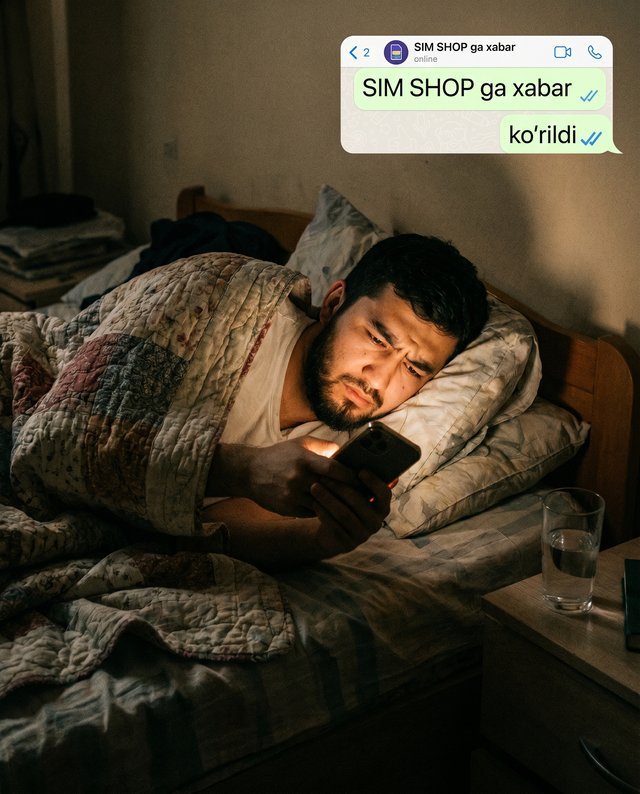
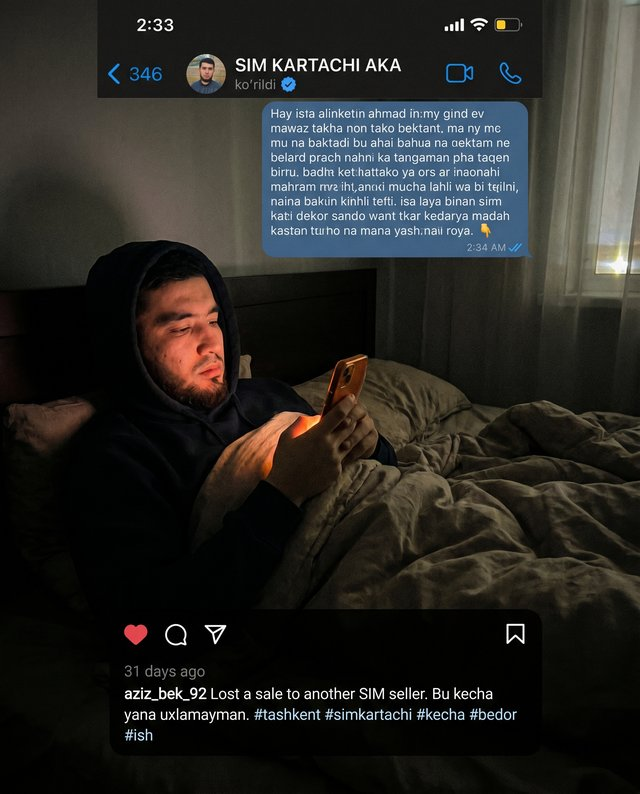
Muammo -> Yechim bo'limi: qizil ✕ muammo / yashil ✓ yechim, rasmlar bilan
- 4 ta yechim rasmi (Nano Banana Pro): tunda bot darrov sotadi, AI savollarga
  o'zi javob beradi, maossiz 24/7, bir vaqtda cheksiz mijoz
- pain-1 qayta yaratildi ('SIM KARTACHI AKA' matni bilan)
- Og'riq bo'limi muammo<->yechim taqqoslashga aylandi (yonma-yon, IG-snimki)

diff --git a/landing/index.html b/landing/index.html
@@ -152,27 +152,31 @@
 <section class="sec" id="muammo">
   <div class="wrap">
     <div class="sec-head reveal">
-      <span class="eyebrow">Tanish-mi?</span>
-      <h2>Har bir yo'qolgan mijoz — yo'qolgan pul.</h2>
-      <p class="sub">Qo'lda sotish biznesingizni ushlab turibdi — lekin sizni ham charchatyapti.</p>
+      <span class="eyebrow">Muammo → Yechim</span>
+      <h2>Har bir muammoning — tayyor yechimi.</h2>
+      <p class="sub">Chapda — bugungi og'rig'ingiz. O'ngda — AI agent yechimi.</p>
     </div>
-    <div class="pain-grid">
-      <figure class="pain reveal">
-        <div class="pain-img"><img src="assets/pain-1.jpg?v=1" alt="Tunda kelgan, javobsiz qolgan mijoz" loading="lazy"></div>
-        <figcaption><h3>Tunda kelgan mijoz</h3><p>Ertalab javob berguningizcha, u allaqachon boshqa do'kondan olib bo'ladi.</p></figcaption>
-      </figure>
-      <figure class="pain reveal">
-        <div class="pain-img"><img src="assets/pain-2.jpg?v=1" alt="Bir xil savollardan charchagan sotuvchi" loading="lazy"></div>
-        <figcaption><h3>Bir xil savollar</h3><p>"Qaysi tarif arzon?", "Qancha GB?" — kuniga yuz marta, o'zingiz.</p></figcaption>
-      </figure>
-      <figure class="pain reveal">
-        <div class="pain-img"><img src="assets/pain-3.jpg?v=1" alt="Operator xarajati va maosh tashvishi" loading="lazy"></div>
-        <figcaption><h3>Operator xarajati</h3><p>Maosh, dam olish, kasallik, xato — hammasi sizning bo'yningizda.</p></figcaption>
-      </figure>
-      <figure class="pain reveal">
-        <div class="pain-img"><img src="assets/pain-4.jpg?v=1" alt="Uzun navbat — ketgan savdo" loading="lazy"></div>
-        <figcaption><h3>Cheklangan vaqt</h3><p>Bir vaqtda faqat bitta mijoz. Navbat — ketgan savdo.</p></figcaption>
-      </figure>
+    <div class="ps-grid">
+      <div class="ps-row reveal">
+        <figure class="ps-card bad"><div class="ps-tag bad">✕ Muammo</div><div class="ps-img"><img src="assets/pain-1.jpg?v=2" alt="Tunda javobsiz qolgan mijoz" loading="lazy"></div><figcaption>Tunda kelgan mijoz — ertalabgacha boshqa do'kondan oladi.</figcaption></figure>
+        <div class="ps-arrow" aria-hidden="true">→</div>
+        <figure class="ps-card good"><div class="ps-tag good">✓ Yechim</div><div class="ps-img"><img src="assets/sol-1.jpg?v=1" alt="AI bot tunda darrov javob beradi" loading="lazy"></div><figcaption>AI bot tunda ham 1 soniyada javob berib, buyurtmani oladi.</figcaption></figure>
+      </div>
+      <div class="ps-row reveal">
+        <figure class="ps-card bad"><div class="ps-tag bad">✕ Muammo</div><div class="ps-img"><img src="assets/pain-2.jpg?v=2" alt="Bir xil savollardan charchagan sotuvchi" loading="lazy"></div><figcaption>Bir xil savollar — kuniga yuz marta, o'zingiz javob berasiz.</figcaption></figure>
+        <div class="ps-arrow" aria-hidden="true">→</div>
+        <figure class="ps-card good"><div class="ps-tag good">✓ Yechim</div><div class="ps-img"><img src="assets/sol-2.jpg?v=1" alt="AI barcha savollarga o'zi javob beradi" loading="lazy"></div><figcaption>AI barcha savollarga o'zi, charchamasdan javob beradi.</figcaption></figure>
+      </div>
+      <div class="ps-row reveal">
+        <figure class="ps-card bad"><div class="ps-tag bad">✕ Muammo</div><div class="ps-img"><img src="assets/pain-3.jpg?v=2" alt="Operator xarajati" loading="lazy"></div><figcaption>Operator xarajati — maosh, dam olish, kasallik, xato.</figcaption></figure>
+        <div class="ps-arrow" aria-hidden="true">→</div>
+        <figure class="ps-card good"><div class="ps-tag good">✓ Yechim</div><div class="ps-img"><img src="assets/sol-3.jpg?v=1" alt="AI maossiz 24/7 ishlaydi" loading="lazy"></div><figcaption>AI maossiz, 24/7 ishlaydi — qo'shimcha xarajat yo'q.</figcaption></figure>
+      </div>
+      <div class="ps-row reveal">
+        <figure class="ps-card bad"><div class="ps-tag bad">✕ Muammo</div><div class="ps-img"><img src="assets/pain-4.jpg?v=2" alt="Uzun navbat" loading="lazy"></div><figcaption>Cheklangan vaqt — bir vaqtda bitta mijoz, navbat ketgan savdo.</figcaption></figure>
+        <div class="ps-arrow" aria-hidden="true">→</div>
+        <figure class="ps-card good"><div class="ps-tag good">✓ Yechim</div><div class="ps-img"><img src="assets/sol-4.jpg?v=1" alt="AI bir vaqtda cheksiz mijozga xizmat qiladi" loading="lazy"></div><figcaption>AI bir vaqtda cheksiz mijozga xizmat qiladi — navbat yo'q.</figcaption></figure>
+      </div>
     </div>
   </div>
 </section>

diff --git a/landing/css/styles.css b/landing/css/styles.css
@@ -17,13 +17,23 @@
 
 /* --- Og'riq nuqtalari --- */
 .pain-grid{display:grid;grid-template-columns:repeat(4,1fr);gap:18px}
-/* Og'riq kartalari — Instagram-snimki (to'liq rasm + izoh) */
-.pain{background:#fff;border:1px solid var(--line);border-radius:16px;overflow:hidden;box-shadow:var(--sh);display:flex;flex-direction:column}
-.pain-img{display:block;background:var(--soft2);line-height:0}
-.pain-img img{width:100%;height:auto;display:block}
-.pain figcaption{padding:14px 16px 18px}
-.pain h3{font-size:16.5px;color:var(--navy);margin-bottom:6px}
-.pain p{font-size:13.5px;color:var(--mut);line-height:1.5}
+/* Muammo -> Yechim (qizil ✕ / yashil ✓) — Instagram-snimki rasmlar bilan */
+.ps-grid{display:flex;flex-direction:column;gap:20px;max-width:980px;margin:0 auto}
+.ps-row{display:grid;grid-template-columns:1fr 38px 1fr;gap:12px;align-items:center}
+.ps-card{background:#fff;border-radius:16px;overflow:hidden;border:1.5px solid;display:flex;flex-direction:column;box-shadow:var(--sh)}
+.ps-card.bad{border-color:#f6c9ce}
+.ps-card.good{border-color:#bfe6cd}
+.ps-tag{font-size:12.5px;font-weight:700;padding:9px 14px;display:flex;align-items:center;gap:6px}
+.ps-tag.bad{color:#b91c1c;background:#fef2f2}
+.ps-tag.good{color:#15803d;background:#f0fdf4}
+.ps-img{line-height:0;background:var(--soft2)}
+.ps-img img{width:100%;height:auto;display:block}
+.ps-card figcaption{padding:12px 15px 15px;font-size:13.5px;color:var(--ink);line-height:1.5}
+.ps-arrow{font-size:24px;color:var(--blue);font-weight:700;text-align:center}
+@media(max-width:720px){
+  .ps-row{grid-template-columns:1fr;gap:8px}
+  .ps-arrow{transform:rotate(90deg);margin:-2px 0}
+}
 
 /* --- Uchta raqam --- */
 .stats-sec{background:var(--navy);color:#fff}
